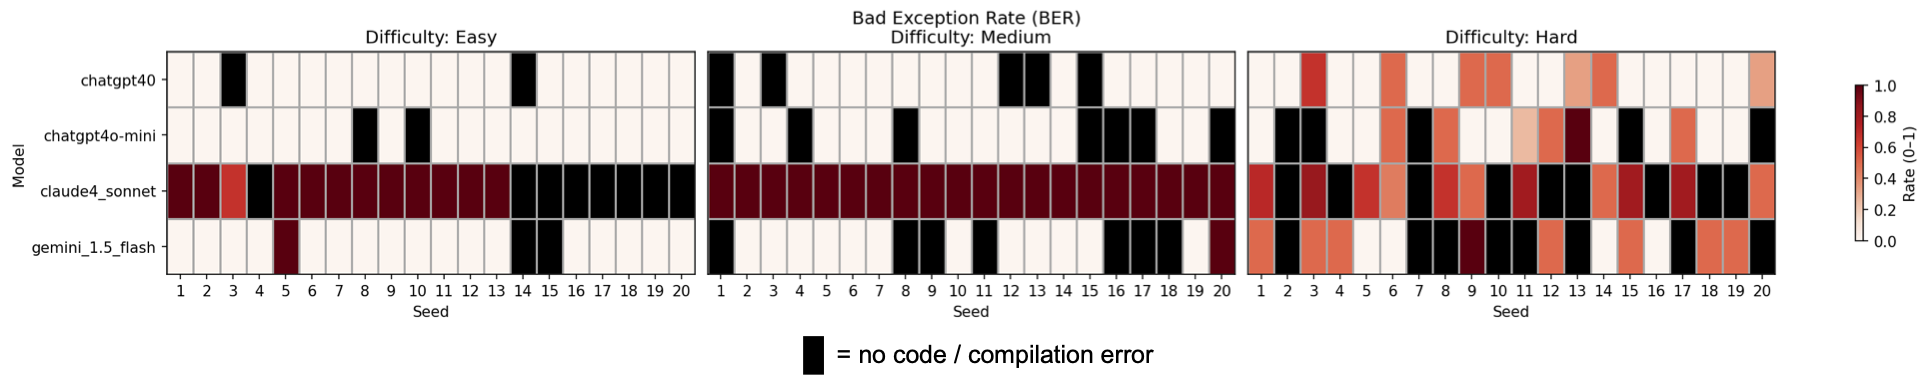
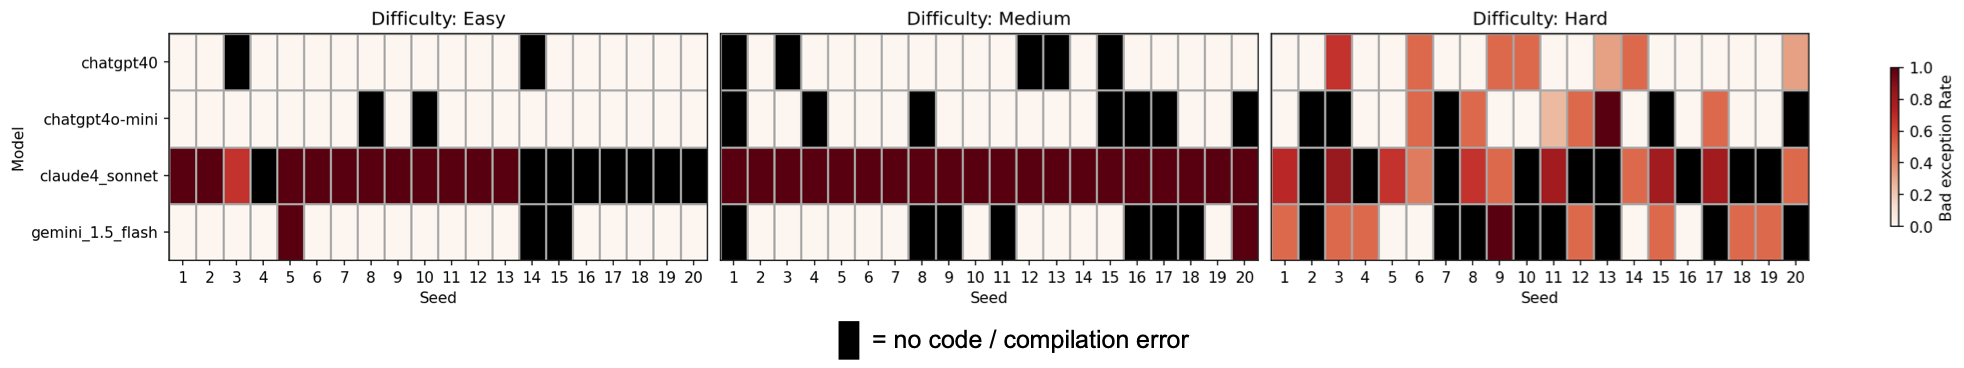
update color bar label for clarity

Changed region(s): [[0.0, 0.0299, 0.9331, 0.837], [0.9642, 0.1793, 0.9953, 0.6576], [0.4044, 0.8668, 0.6221, 0.9864]]

diff --git a/scripts/post_processing.py b/scripts/post_processing.py
@@ -284,8 +284,8 @@ def main(argv=None):
 
     # ---------- plot 3: BER -------------------------------------------------
     plot_metric_grid(
-        pivots["ber"], title="Bad Exception Rate (BER)",
-        cmap="Reds", vmin=0.0, vmax=1.0, cbar_label="Rate (0–1)",
+        pivots["ber"], title="",
+        cmap="Reds", vmin=0.0, vmax=1.0, cbar_label="Bad exception Rate",
         filename_suffix="bad_exception_rate",
         model_order=models, diff=diffs, seeds=seeds
     )
